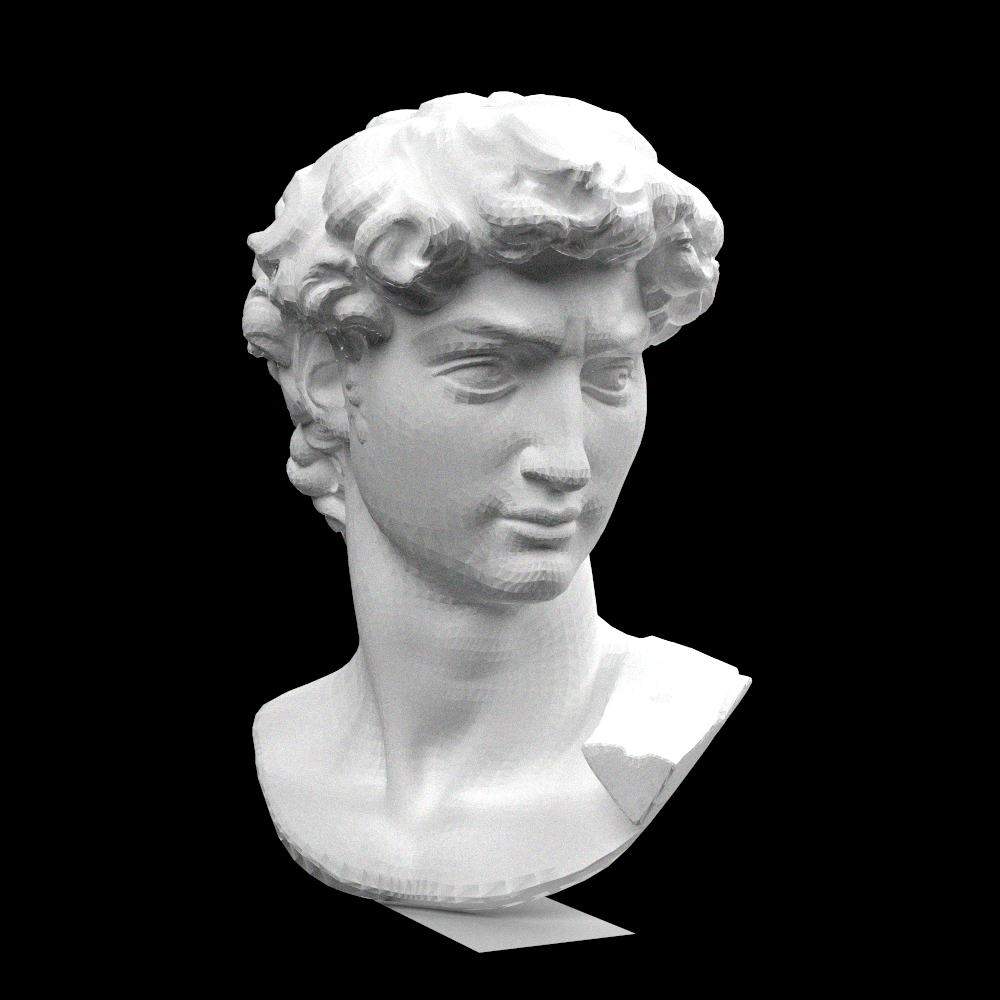
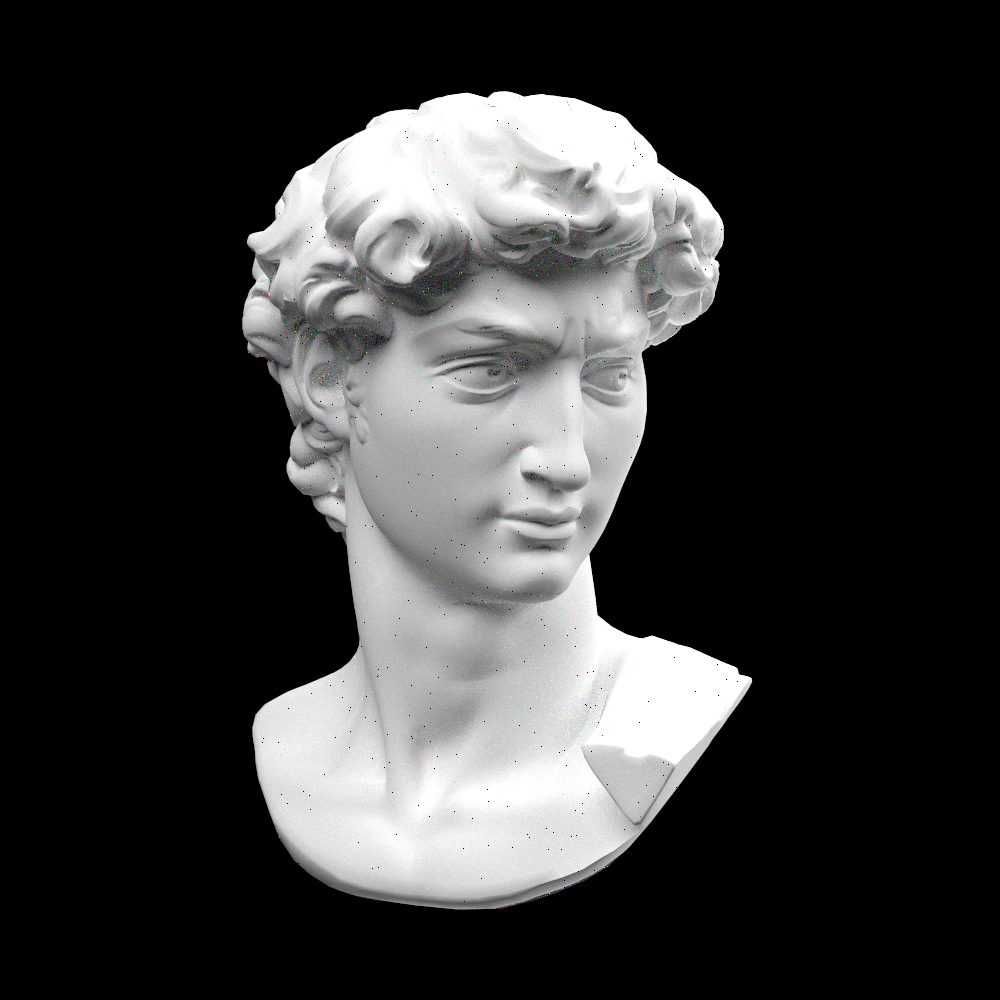
Update showcases

Changed region(s): [[0.248, 0.124, 0.744, 0.961]]

diff --git a/raytracer/src/main.rs b/raytracer/src/main.rs
@@ -192,7 +192,7 @@ fn main() {
     let mut samples_per_pixel: usize = 100;
     let _filename: &str;
 
-    let scene = 11;
+    let scene = 15;
 
     let filename = match scene {
         1 => {
@@ -421,7 +421,7 @@ fn main() {
             image_width = 1000;
             image_height = 1000;
             background = RGB::new(0.0, 0.0, 0.0);
-            samples_per_pixel = 100;
+            samples_per_pixel = 8000;
             aperture = 0.001;
             vfov = 30.0;
 
@@ -449,7 +449,7 @@ fn main() {
         1.0,
     ));
 
-    let n_workers = 30;
+    let n_workers = 8;
     let mut img = image::RgbaImage::new(image_width as u32, image_height as u32);
     let block_col = 8;
     let block_row = 8;

diff --git a/README.md b/README.md
@@ -11,16 +11,12 @@ Ray tracer implementation in Rust, based on [Ray Tracing in One Weekend Book Ser
 
 ## Showcases
 
-![tri-sphere](/output/tri-sphere.png)
+![david](/output/david.png)
 
 ![sycee](/output/sycee.png)
 
-![three spheres](/output/three_spheres.png)
+![tri-sphere](/output/tri-sphere.png)
 
 ![Utah teapoto](/output/teapot.png)
 
-![the next week final scene](/output/the_next_week_final_static_scene.png)
-
-![book1 final scene](/output/random_scene.png)
-
-![cornel box that uses mixture pdf to reduce noise](/output/cornell_box.png)
+![three spheres](/output/three_spheres.png)
